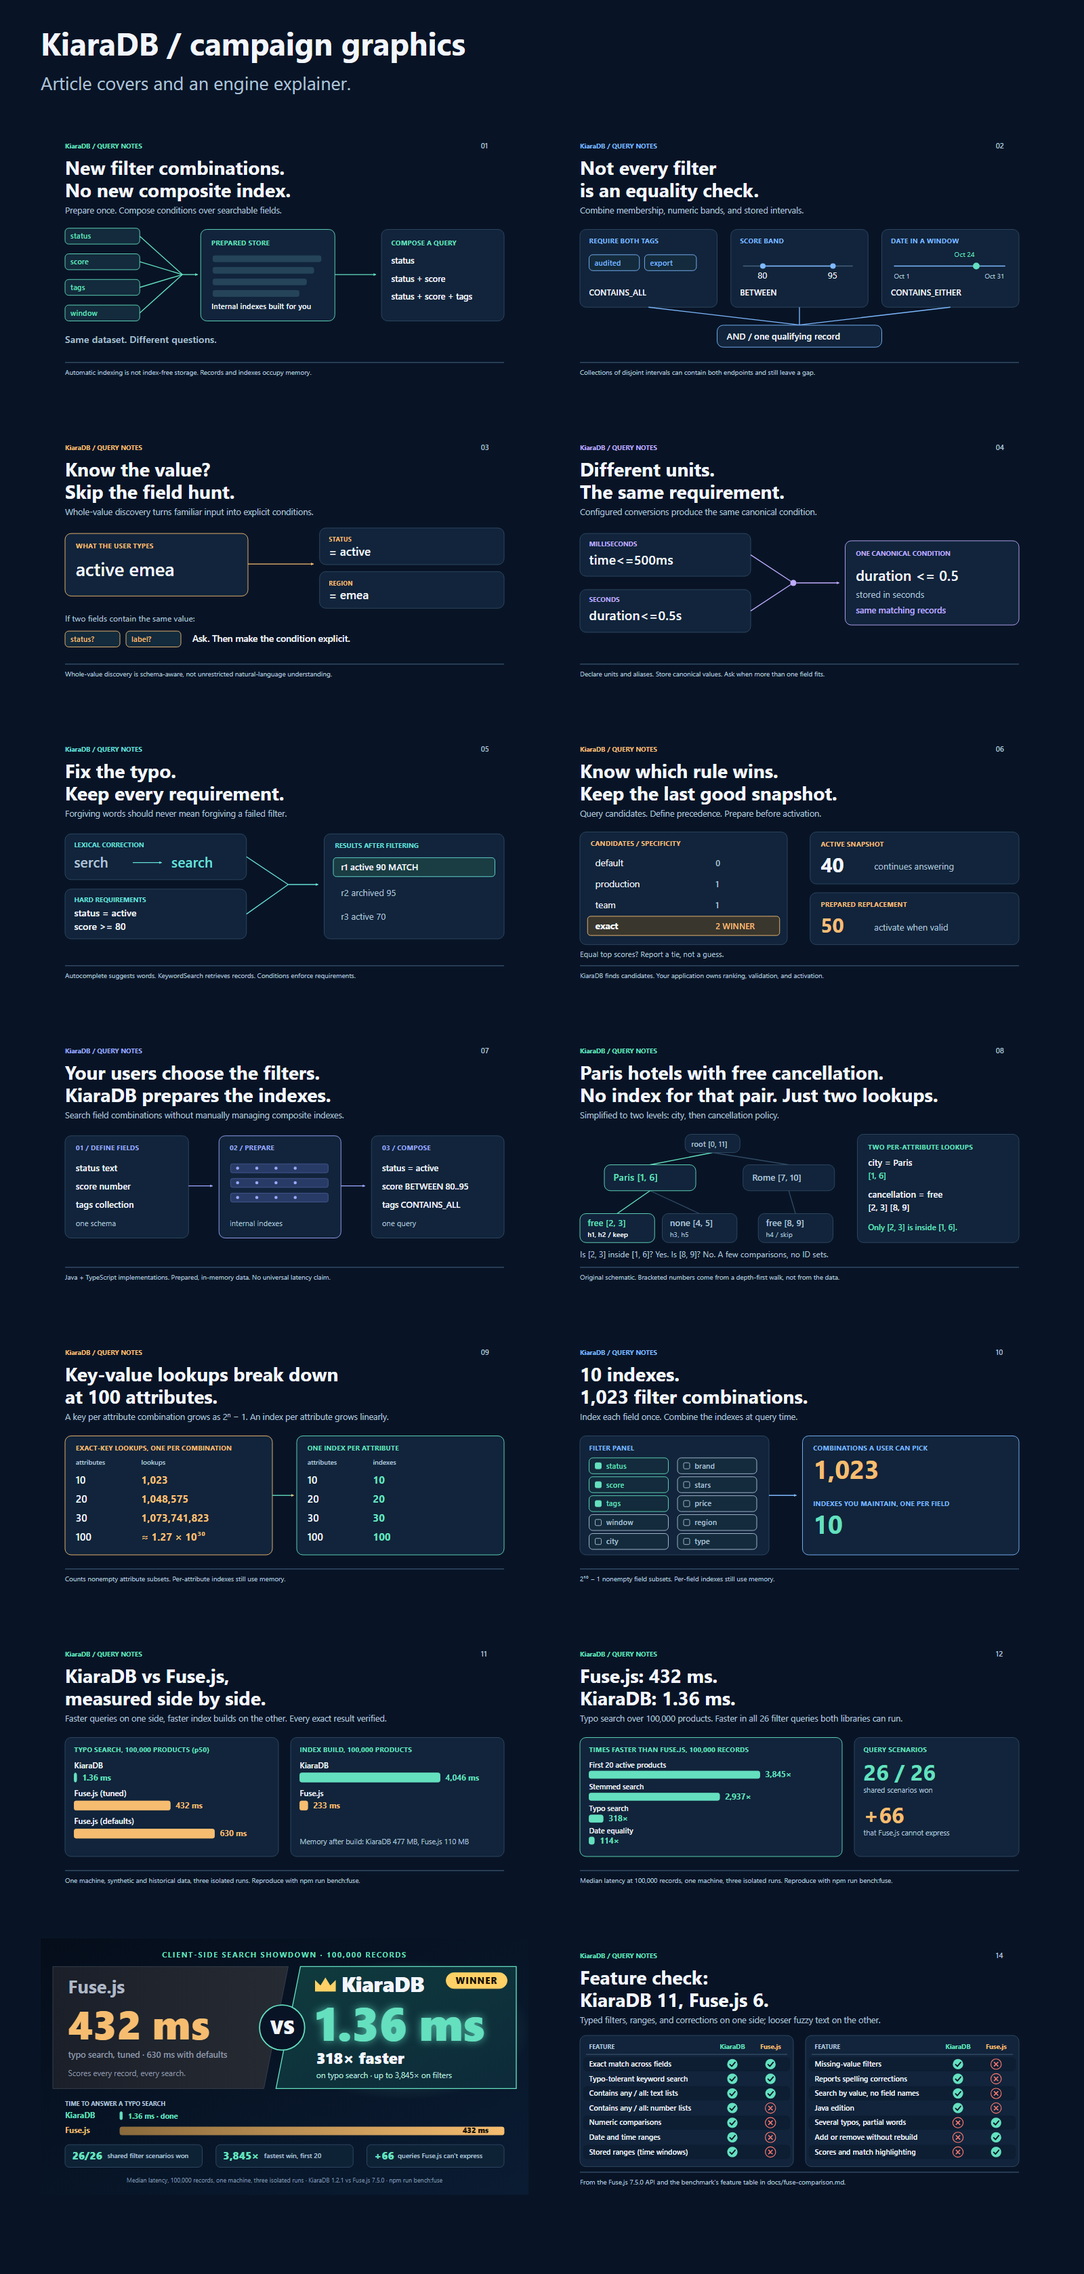
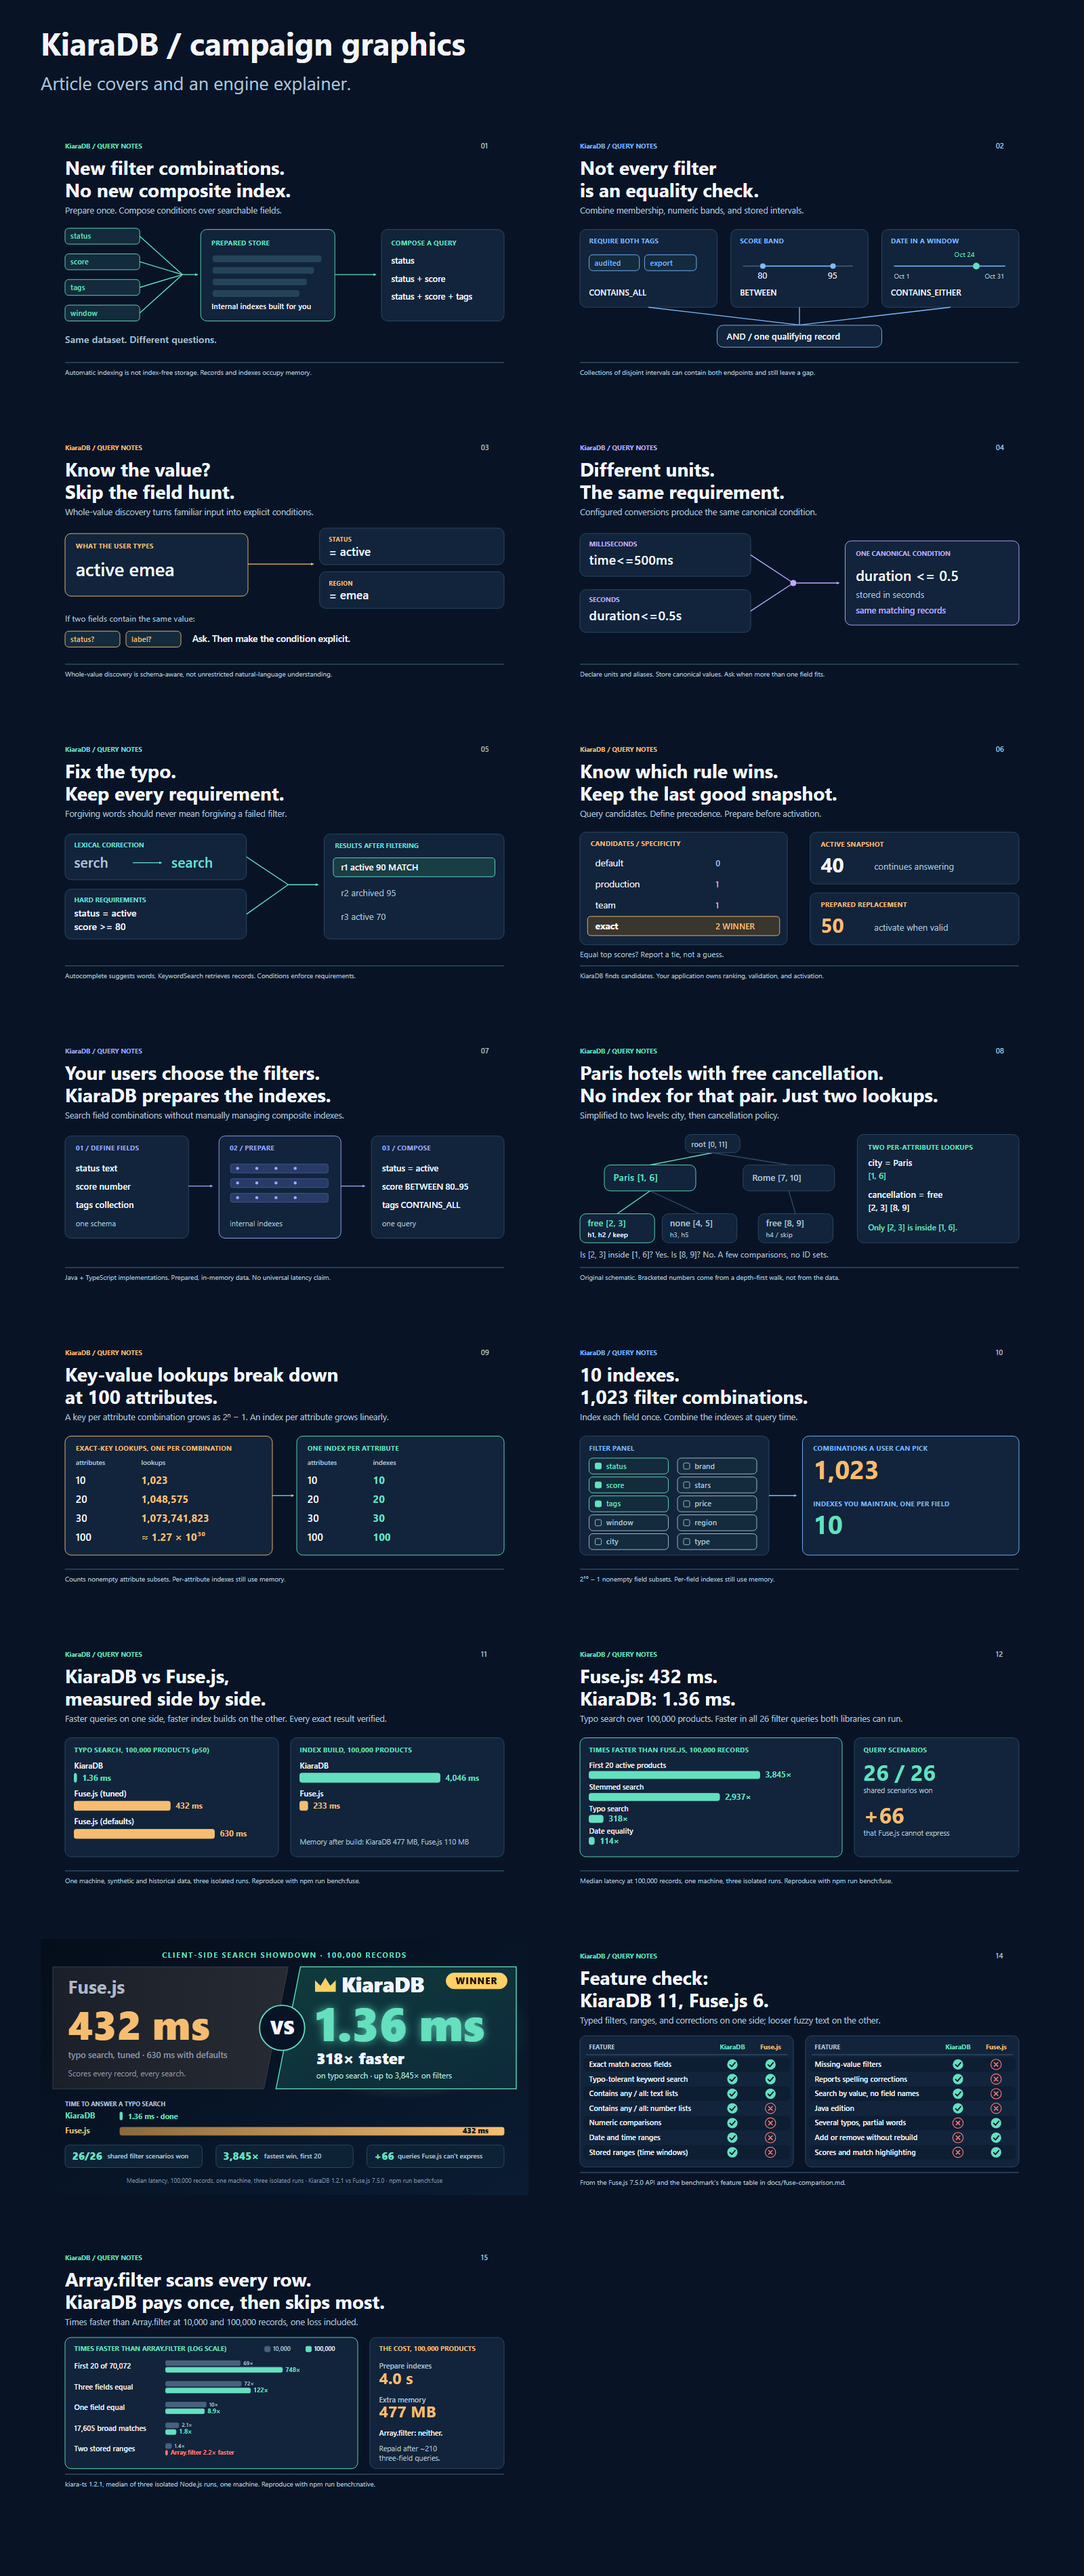
Add KiaraDB vs Array.filter benchmark article
New article comparing kiara-ts 1.2.1 with Array.filter: a runnable
side-by-side snippet, per-dataset totals and savings, how savings grow
from 10,000 to 100,000 records, where KiaraDB fits and where Array.filter
is the better choice. Adds a generated cover chart and links the article
from the README.

diff --git a/articles/campaign/graphics.html b/articles/campaign/graphics.html
@@ -6,7 +6,7 @@ body{margin:0;padding:48px;background:#081426;color:#f2f6fc;font:18px "Segoe UI"
 h1{margin:0 0 8px;font-size:38px}p{color:#afc2d7}main{display:grid;grid-template-columns:repeat(2,minmax(0,1fr));gap:28px}
 figure{margin:0}img{display:block;width:100%;height:auto;border:1px solid #304963;border-radius:12px}
 figcaption{padding:12px 0}a{color:#9caaff}@media(max-width:800px){main{grid-template-columns:1fr}}
-</style><h1>KiaraDB / campaign graphics</h1><p>14 original diagrams. 1600 x 840 PNG exports and editable SVG sources.</p><main>
+</style><h1>KiaraDB / campaign graphics</h1><p>15 original diagrams. 1600 x 840 PNG exports and editable SVG sources.</p><main>
 <figure><img src="../images/seven-features-linkedin.png" alt="Status, score, tags, and window fields feed a prepared store with internal indexes. Several different queries use that same store."><figcaption>01 / Automatic indexing supports changing filter combinations &middot; <a href="../images/seven-features-linkedin.png">PNG</a> &middot; <a href="../images/seven-features-linkedin.svg">SVG</a></figcaption></figure>
 <figure><img src="../images/seven-features-medium.png" alt="Three cards show required tags audited and export, a score from 80 to 95, and October 24 inside an October interval. All three feed one matching record."><figcaption>02 / Tags, dates, and ranges combined with AND &middot; <a href="../images/seven-features-medium.png">PNG</a> &middot; <a href="../images/seven-features-medium.svg">SVG</a></figcaption></figure>
 <figure><img src="../images/query-interpretation-linkedin.png" alt="The query active emea is separated into status equals active and region equals emea. If active occurs in two fields, the interface asks for a choice."><figcaption>03 / Bare values resolve to field conditions &middot; <a href="../images/query-interpretation-linkedin.png">PNG</a> &middot; <a href="../images/query-interpretation-linkedin.svg">SVG</a></figcaption></figure>
@@ -21,4 +21,5 @@ figcaption{padding:12px 0}a{color:#9caaff}@media(max-width:800px){main{grid-temp
 <figure><img src="../images/introducing-kiaradb.png" alt="Typo search over 100,000 products took 432 milliseconds in tuned Fuse.js and 1.36 in KiaraDB. KiaraDB answered first-20 lists 3,845 times faster, stemmed search 2,937 times, typo search 318 times, and date equality 114 times faster. It won all 26 filter queries both libraries can run and handled 66 more that Fuse.js cannot express."><figcaption>12 / Introducing KiaraDB: query speed against Fuse.js &middot; <a href="../images/introducing-kiaradb.png">PNG</a> &middot; <a href="../images/introducing-kiaradb.svg">SVG</a></figcaption></figure>
 <figure><img src="../images/kiaradb-vs-fusejs-hero.png" alt="A fight-card hero image for client-side search over 100,000 records. On typo search, Fuse.js took 432 milliseconds tuned and 630 with defaults; KiaraDB, crowned the winner, took 1.36 milliseconds, 318 times faster, and was up to 3,845 times faster on filters. A race strip shows KiaraDB finishing almost instantly while Fuse.js runs the full length. KiaraDB won 26 of 26 shared filter scenarios and ran 66 scenarios Fuse.js cannot express."><figcaption>13 / Client-side search showdown: KiaraDB beats Fuse.js &middot; <a href="../images/kiaradb-vs-fusejs-hero.png">PNG</a> &middot; <a href="../images/kiaradb-vs-fusejs-hero.svg">SVG</a></figcaption></figure>
 <figure><img src="../images/kiaradb-vs-fusejs-features.png" alt="Ticks and crosses for fourteen features. Both: exact matches across fields, typo-tolerant keyword search, and contains-any or contains-all matching on text lists. KiaraDB only: contains-any or contains-all on number lists, numeric comparisons, date and time ranges, stored ranges, missing-value filters, reported spelling corrections, a query interpreter that searches by value, and a Java edition. Fuse.js only: several typos and partial words per term, adding and removing records without a rebuild, and relevance scores with match highlighting."><figcaption>14 / Feature comparison chart: KiaraDB and Fuse.js &middot; <a href="../images/kiaradb-vs-fusejs-features.png">PNG</a> &middot; <a href="../images/kiaradb-vs-fusejs-features.svg">SVG</a></figcaption></figure>
+<figure><img src="../images/kiaradb-vs-array-filter.png" alt="Times faster than Array.filter at 10,000 and then 100,000 records: first 20 of 70,072 active products 69 then 748; three fields equal 72 then 122; one field equal 10 then 8.9; 17,605 broad matches 2.1 then 1.8; two stored ranges 1.4 at 10,000, while at 100,000 Array.filter was 2.2 times faster. At 100,000 products KiaraDB took 4.0 seconds and 477 MB to prepare; Array.filter needs neither."><figcaption>15 / KiaraDB versus Array.filter: speedup by dataset size and the cost of preparing indexes &middot; <a href="../images/kiaradb-vs-array-filter.png">PNG</a> &middot; <a href="../images/kiaradb-vs-array-filter.svg">SVG</a></figcaption></figure>
 </main></html>

diff --git a/articles/kiaradb-vs-array-filter.md b/articles/kiaradb-vs-array-filter.md
@@ -1,0 +1,135 @@
+# KiaraDB vs Array.filter: When a Prepared Index Pays Off, and When It Doesn't
+
+`Array.filter` is the right default for searching data in memory. KiaraDB, an open-source search engine for TypeScript and Java, makes the opposite trade: it spends seconds preparing per-field indexes so later queries can skip most rows. Across 86 benchmark queries it was 8.6× to 22× faster overall, and when the data grew tenfold, the time it saved grew 11- to 22-fold. It also lost twice.
+
+![KiaraDB versus Array.filter: times faster at 10,000 and 100,000 records. First 20 of 70,072 rose from 69 to 748 times faster, three fields equal from 72 to 122, one field equal stayed near 9, broad matches near 2, and on two stored ranges Array.filter was 2.2 times faster at 100,000 records. Preparing 100,000 products took 4.0 seconds and 477 MB.](./images/kiaradb-vs-array-filter.png)
+
+*Written by KiaraDB's creator with AI assistance. Every number comes from an open benchmark you can rerun with one command.*
+
+## Same question, two approaches
+
+Find active products priced 20 to 40 that are not tagged clearance:
+
+```javascript
+import {
+  Store, NormalizationProfile, Operator, createCondition, defineSchema, textField, numberField,
+} from "@kapoorlabs/kiara-ts";
+
+const products = [
+  { id: "p1", status: "active", price: 25, tags: "gift,premium" },
+  { id: "p2", status: "active", price: 55, tags: "gift" },
+  { id: "p3", status: "archived", price: 30, tags: "premium" },
+  { id: "p4", status: "active", price: 35, tags: "clearance" },
+  { id: "p5", status: "active", price: 22, tags: null },
+  { id: "p6", status: "active", price: 40, tags: "premium,eco" },
+];
+
+// Array.filter: no setup; every query scans every product.
+const scanned = products.filter((p) => p.status === "active"
+  && p.price >= 20 && p.price <= 40
+  && !(p.tags ?? "").split(",").includes("clearance"));
+
+// KiaraDB: declare fields and prepare once; later queries reuse the indexes.
+const store = new Store(defineSchema([
+  textField("status"),
+  numberField("price"),
+  textField("tags", { secondaryType: "commaSeparatedStrings", nullable: true }),
+  textField("id", { ignoreIndex: true }),
+]), { normalizationProfile: NormalizationProfile.NATIVE });
+store.loadRows(products);
+store.prepare();
+const indexed = store.search([
+  createCondition({ field: "status", values: ["active"] }),
+  { field: "price", operator: Operator.BETWEEN, lowerValue: 20, upperValue: 40 },
+  { field: "tags", operator: Operator.NOT_CONTAINS, values: ["clearance"] },
+]);
+
+console.log(JSON.stringify({
+  scanned: scanned.map((p) => p.id),
+  indexed: indexed.map((p) => p.id),
+}));
+```
+
+```json
+{"scanned":["p1","p5","p6"],"indexed":["p1","p5","p6"]}
+```
+
+Both return the same products, including `p5`, whose tags are missing. KiaraDB defines how missing lists, inclusive bounds, and exclusions behave once, in the schema, instead of in every callback.
+
+## How the benchmark was run
+
+- **86 exact-filter scenarios** over 3,788 real retail products and synthetic catalogs and schedules of 10,000 and 100,000 records.
+- **One generic Array.filter baseline** with the same missing-value and range rules, then `slice` for limits; no index, no early exit.
+- **Checked before timed:** identical IDs, count, and order. Medians of three isolated Node.js runs; preparation timed separately.
+
+## The results
+
+| Dataset | Records | Array.filter, all queries | KiaraDB, all queries | Saved | Typical speedup | Prepare | Extra memory |
+|---|---:|---:|---:|---:|---:|---:|---:|
+| Retail | 3,788 | 4.3 ms | 0.6 ms | 3.7 ms | 8.6× | 0.35 s | 15 MB |
+| Catalog | 10,000 | 25 ms | 2.5 ms | 22 ms | 14× | 0.45 s | 52 MB |
+| Catalog | 100,000 | 276 ms | 27 ms | 249 ms | 22× | 4.0 s | 477 MB |
+| Schedule | 10,000 | 23 ms | 4.8 ms | 18 ms | 11× | 0.67 s | 85 MB |
+| Schedule | 100,000 | 487 ms | 75 ms | 412 ms | 21× | 6.7 s | 761 MB |
+
+"All queries" sums the median latency of every scenario in the dataset (6 to 21 queries). Typical speedup is the geometric mean of per-query ratios. Array.filter needed no preparation and almost no memory.
+
+KiaraDB was faster in 84 of 86 scenarios and at least 20× faster in 32.
+
+## Savings grow with the data
+
+Ten times more records made Array.filter 11 to 21 times slower across each query set. Selective KiaraDB queries stayed well under a millisecond, so the milliseconds saved grew even faster than the data:
+
+| Query (Array.filter → KiaraDB) | 10,000 records | 100,000 records |
+|---|---:|---:|
+| Active, in EMEA, one brand | 1.7 → 0.02 ms | 19.1 → 0.16 ms |
+| One start date | 0.60 → 0.02 ms | 20.6 → 0.32 ms |
+| First 20 active products | 0.96 → 0.01 ms | 11.8 → 0.02 ms |
+
+Across the whole query sets, savings grew from 22 to 249 ms on catalogs and from 18 to 412 ms on schedules. We measured up to 100,000 records. Because a scan pays for every row and a selective index lookup mostly does not, the gap should keep widening with larger data, but measure your own.
+
+## Where KiaraDB shines
+
+**Selective filters across several fields.** Active EMEA products from one brand (299 of 100,000) matched 122× faster; the per-field indexes skip the other 99,701 rows. That makes it a fit for filter panels and dashboards that ask a new question on every click.
+
+**Small result limits.** The first 20 of 70,072 active products came back 748× faster, because KiaraDB stops at 20 while Array.filter scans everything first. A hand-written loop that stops early would close much of that gap.
+
+**Dates and lists.** Matching one start date among 100,000 events was 64× faster; events open on two given dates, 41×.
+
+**Search beyond filters.** The same store adds typo correction, stemming, prefix completion, and a query interpreter, none of which were compared here.
+
+## When to stay with Array.filter
+
+**Small or one-off data.** Scanning 10,000 records took about 0.6 to 2 ms. If that is fast enough, a library adds little.
+
+**Data that changes constantly.** Changing one record means rebuilding the prepared store: 4.0 seconds for 100,000 products. If data changes more often than it is queried, the scan wins.
+
+**Tight memory budgets.** The 100,000-event store retained 761 MB beyond the source data. On low-end phones that can decide it.
+
+**Broad matches.** Selecting 17,605 of 100,000 products with two broad conditions was only 1.8× faster (6.4 against 11.5 ms); indexes help less when much of the data matches.
+
+**Stored ranges at scale.** Array.filter won both of its scenarios here, on 100,000 events: capacity ranges containing both 100 and 900 (9.3 against 20.6 ms in KiaraDB), and a four-condition query mixing two stored ranges (20.7 against 27.5 ms).
+
+## Does the build pay for itself?
+
+Preparing 100,000 products took about 4 seconds. The three-field query above saves 18.9 ms each time, so the build pays for itself after about 210 such queries; a one-field query saving 7.4 ms needs about 540. A busy filter interface gets there in one session. A nightly report never does. Build it in a Web Worker to keep the page responsive.
+
+## A quick checklist
+
+Reach for KiaraDB when most of these hold:
+
+- The same dataset answers many queries.
+- Queries combine several fields and usually return a small share of records.
+- Filters include lists, ranges, dates, or missing values.
+- Seconds of preparation and hundreds of megabytes per 100,000 records are acceptable.
+
+Otherwise, `Array.filter` is simpler and probably fast enough.
+
+## Reproduce it
+
+```bash
+git clone https://github.com/kapoor-labs/kiara-ts-examples
+cd kiara-ts-examples && npm install && npm run bench:native
+```
+
+The [full report](https://github.com/kapoor-labs/kiara-ts-examples/blob/main/docs/native-filter-comparison.md) lists all 86 scenarios with p50 and p95 latency, and the [Array.filter baseline](https://github.com/kapoor-labs/kiara-ts-examples/blob/main/scripts/native-filter.ts) is one short file. Results come from one machine (Node.js 26, AMD EPYC 7763), not a browser, measured on [kiara-ts 1.2.1](https://www.npmjs.com/package/@kapoorlabs/kiara-ts/v/1.2.1).

diff --git a/README.md b/README.md
@@ -111,6 +111,7 @@ DEV-oriented tutorial draft (review platform rules before publishing):
 - [10 Indexes, 1,023 Filter Combinations: Build the Numbered-Tree Trick in JavaScript](./articles/kiaradb-composable-filters-devto.md)
 
 Benchmark article for developer communities (review platform rules before publishing):
+- [KiaraDB vs Array.filter: When a Prepared Index Pays Off, and When It Doesn't](./articles/kiaradb-vs-array-filter.md)
 - [KiaraDB vs Fuse.js: Faster Queries or Faster Builds? A Side-by-Side Benchmark](./articles/kiaradb-vs-fusejs-benchmark.md)
 - [Meet KiaraDB: Client-Side Search Up to 3,800× Faster Than Fuse.js. It's Not Even Close.](./articles/introducing-kiaradb-vs-fusejs.md)
 
